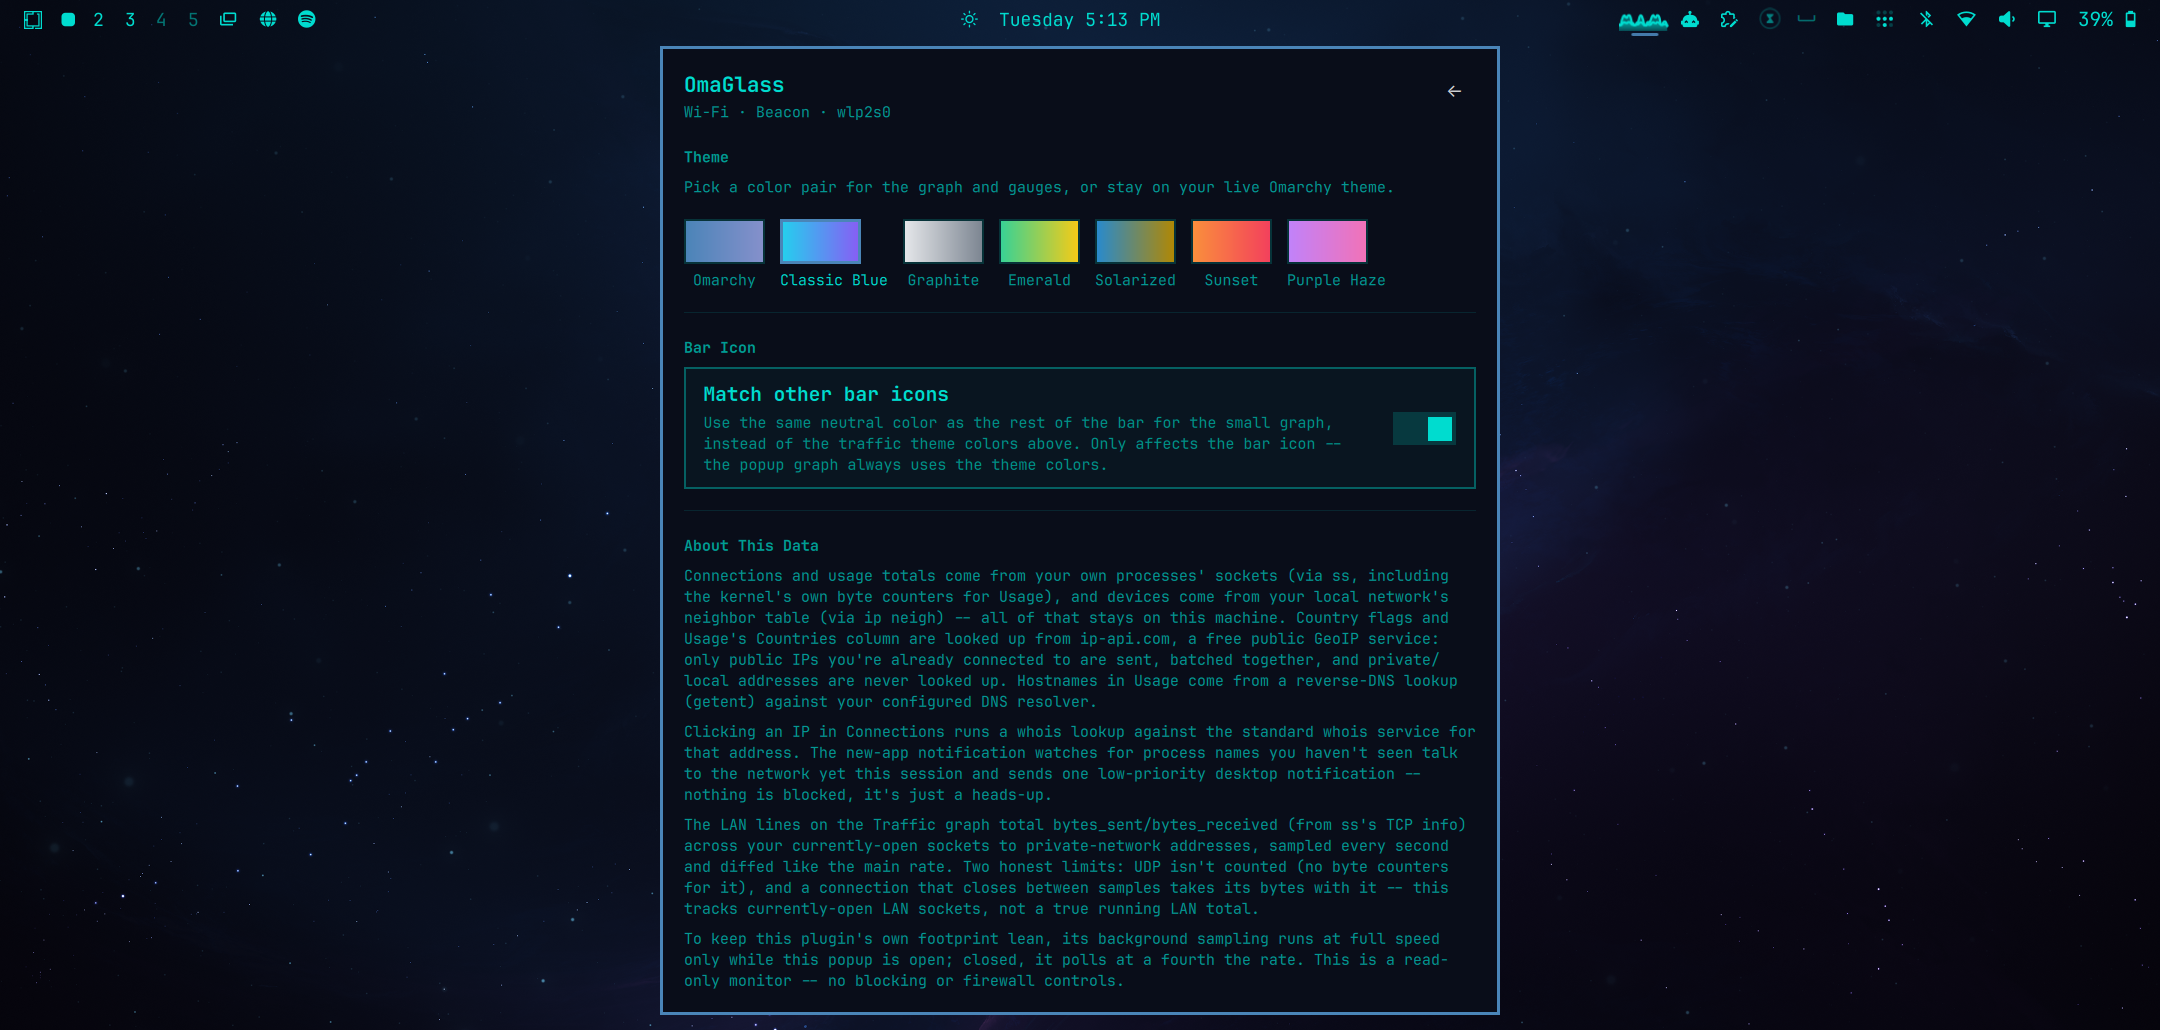
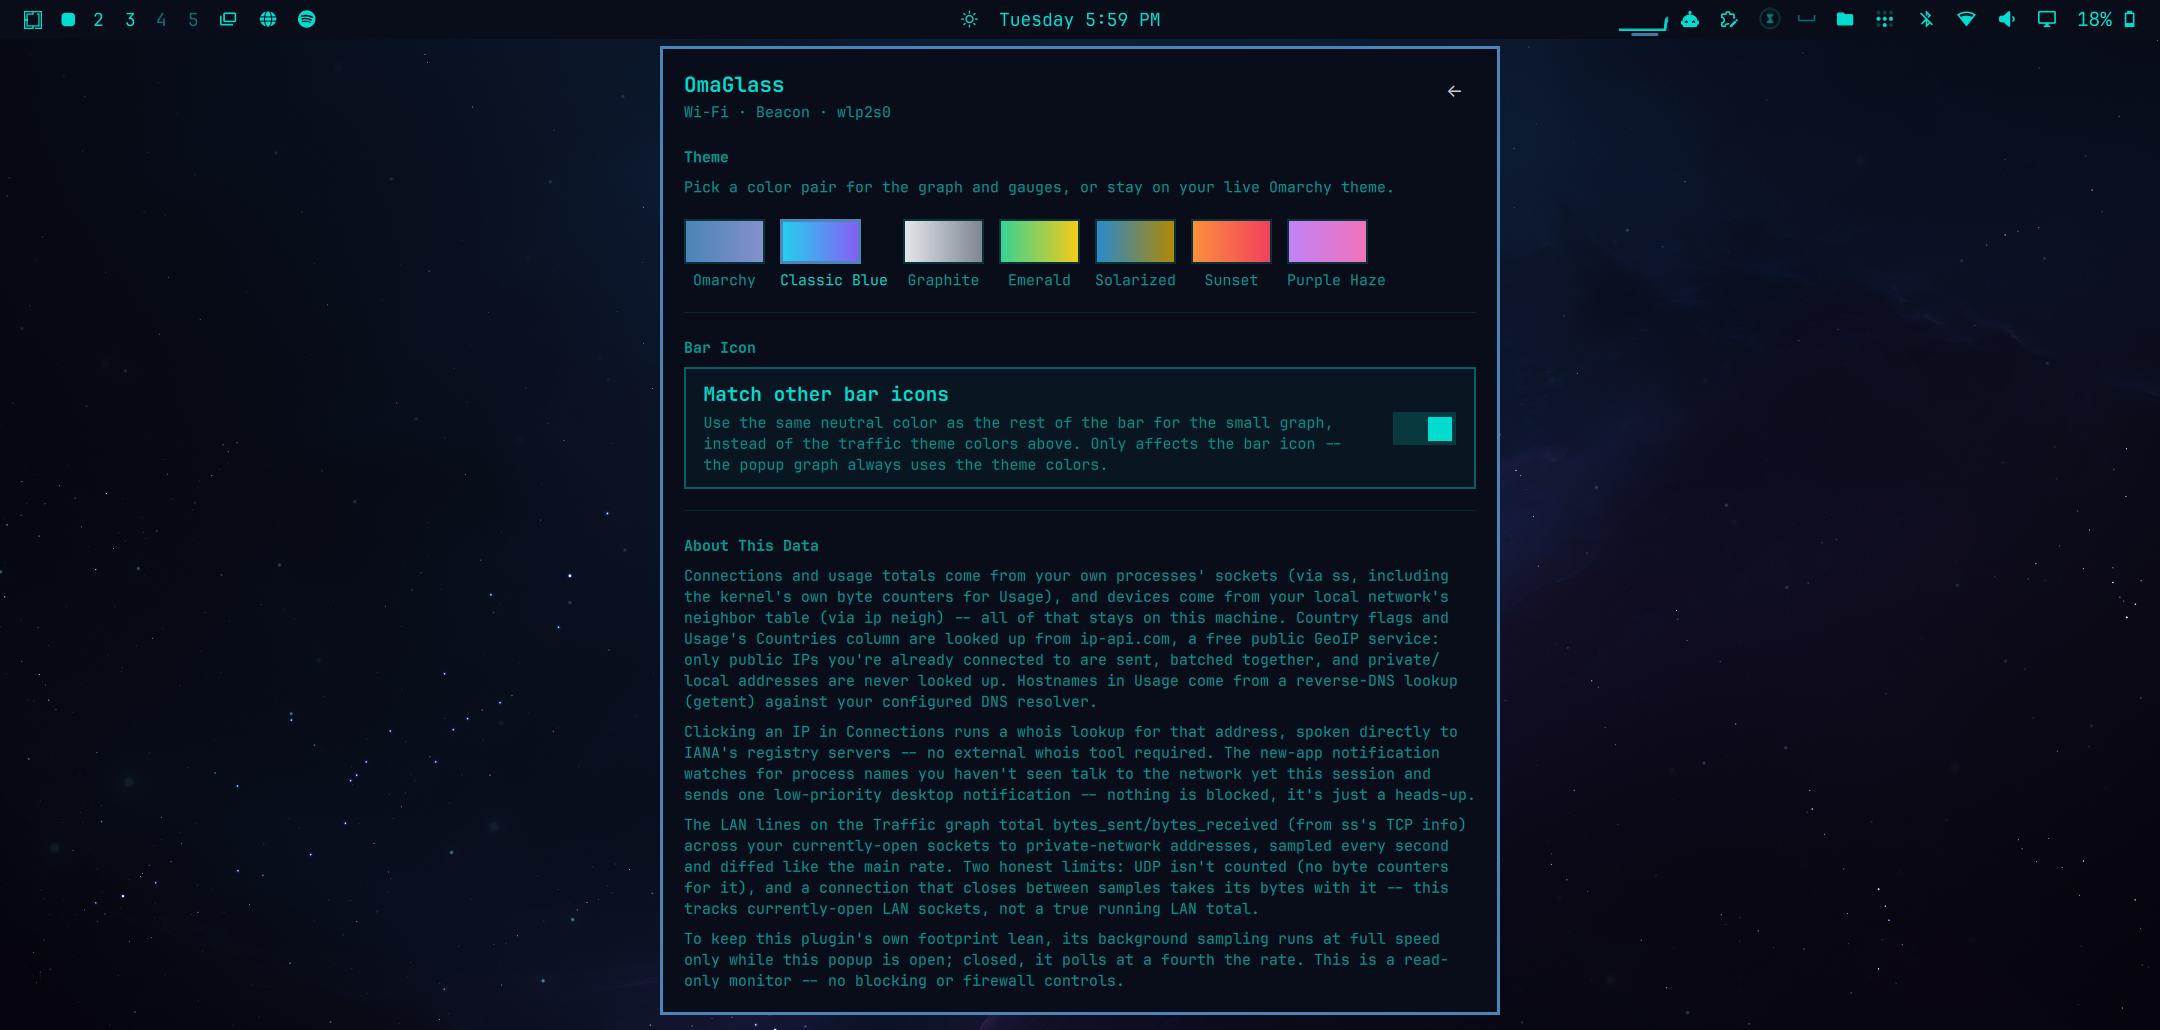
Drop the whois binary dependency
Whois lookups now speak the whois protocol directly over bash's
/dev/tcp (query IANA, follow its one referral to the authoritative
registry) instead of shelling out to a separate `whois` package, so
the plugin has zero dependencies beyond a stock Omarchy install.

Claude-Session: https://claude.ai/code/session_01NX95P1fFhTCEqgbjfpdraD

diff --git a/Panel.qml b/Panel.qml
@@ -488,7 +488,34 @@ Panel {
   Process {
     id: whoisProc
     property string targetIp: ""
-    command: ["whois", targetIp]
+    // No external `whois` binary required -- this speaks the WHOIS
+    // protocol (RFC 3912: connect on TCP/43, send "query\r\n", read until
+    // the peer closes) directly over bash's /dev/tcp, so the plugin has no
+    // dependency beyond what a stock Omarchy install already has. Queries
+    // IANA's root server first and follows its one `refer:` pointer to the
+    // actual regional registry (ARIN/RIPE/APNIC/LACNIC/AFRINIC) for the
+    // real record -- the same single-hop referral chase the standalone
+    // `whois` CLI does for IP lookups. `timeout` bounds each hop so an
+    // unreachable/slow server can't hang the popup indefinitely.
+    command: ["bash", "-c", `
+      TARGET_IP="$1"
+      export TARGET_IP
+      q() {
+        timeout 8 bash -c '
+          exec 3<>"/dev/tcp/$1/43" || exit 1
+          printf "%s\\r\\n" "$TARGET_IP" >&3
+          cat <&3
+        ' _ "$1"
+      }
+      resp1=$(q whois.iana.org) || { echo "Could not reach the whois service."; exit 0; }
+      refer=$(printf '%s\\n' "$resp1" | grep -i '^refer:' | head -1 | sed 's/^[Rr]efer:[[:space:]]*//' | tr -d '\\r\\n ')
+      if [ -n "$refer" ]; then
+        resp2=$(q "$refer")
+        if [ -n "$resp2" ]; then printf '%s\\n' "$resp2"; else printf '%s\\n' "$resp1"; fi
+      else
+        printf '%s\\n' "$resp1"
+      fi
+    `, "_", targetIp]
     stdout: StdioCollector {
       waitForEnd: true
       onStreamFinished: {

diff --git a/SettingsView.qml b/SettingsView.qml
@@ -126,7 +126,7 @@ Column {
       width: parent.width
       wrapMode: Text.WordWrap
       textFormat: Text.PlainText
-      text: "Clicking an IP in Connections runs a whois lookup against the standard whois service for that address. The new-app notification watches for process names you haven't seen talk to the network yet this session and sends one low-priority desktop notification -- nothing is blocked, it's just a heads-up."
+      text: "Clicking an IP in Connections runs a whois lookup for that address, spoken directly to IANA's registry servers -- no external whois tool required. The new-app notification watches for process names you haven't seen talk to the network yet this session and sends one low-priority desktop notification -- nothing is blocked, it's just a heads-up."
       color: panel.mutedText
       font.family: Style.font.family
       font.pixelSize: Style.font.caption

diff --git a/README.md b/README.md
@@ -50,8 +50,10 @@ asked.
 
 ### Requirements
 
-OmaGlass shells out to standard system tools rather than bundling any code.
-Everything below except `whois` ships with a stock Omarchy install:
+None — nothing to install beyond the command above. OmaGlass shells out to
+standard system tools that already ship with a stock Omarchy install, and
+speaks the whois protocol itself over a raw socket rather than depending on
+a separate `whois` package:
 
 | Tool | Used for |
 | --- | --- |
@@ -61,13 +63,7 @@ Everything below except `whois` ships with a stock Omarchy install:
 | `getent` (glibc) | Reverse-DNS hostnames in Usage |
 | `curl` | Batched GeoIP lookups |
 | `wl-copy` (wl-clipboard) | Clipboard copy actions |
-| `whois` | On-demand IP lookups from Connections |
-
-If `whois` isn't already on your system:
-
-```bash
-omarchy pkg add whois
-```
+| `bash` (`/dev/tcp`) | On-demand IP whois lookups from Connections |
 
 ## Removal
 
@@ -83,8 +79,8 @@ omarchy plugin remove io.github.cjohnson46.omaglass
   [ip-api.com](https://ip-api.com), a free public GeoIP service: only public
   IPs you're already connected to are sent, batched together. Private/local
   addresses are never looked up.
-- Whois lookups run against the standard `whois` service for the address you
-  clicked.
+- Whois lookups speak the whois protocol directly to IANA's registry
+  servers for the address you clicked (no external `whois` binary).
 - Reverse-DNS hostnames come from `getent` against your own configured DNS
   resolver.
 - Background sampling runs at full speed only while the popup is open;
